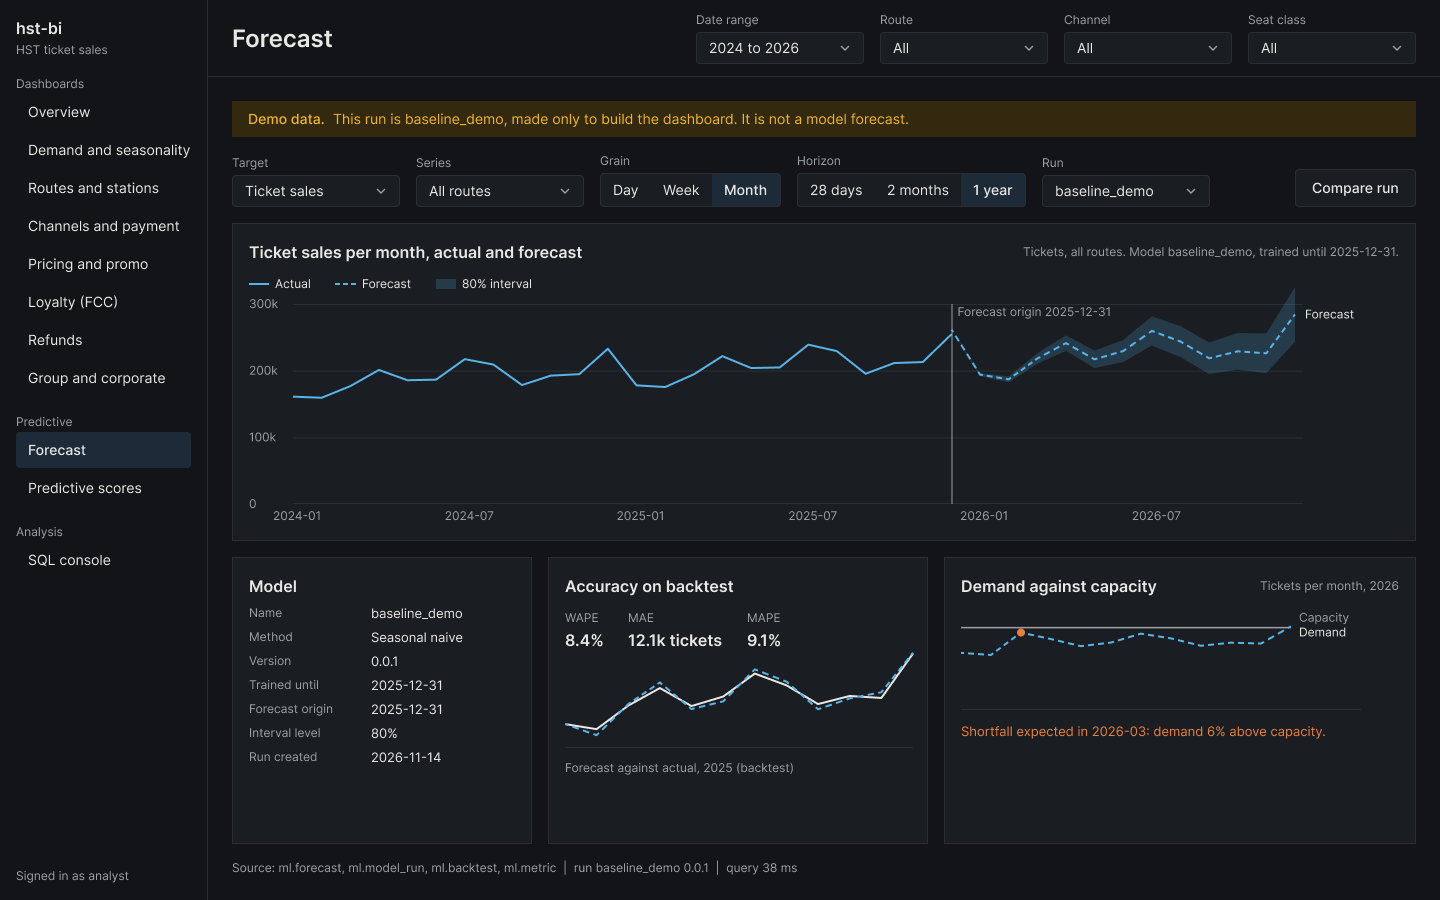
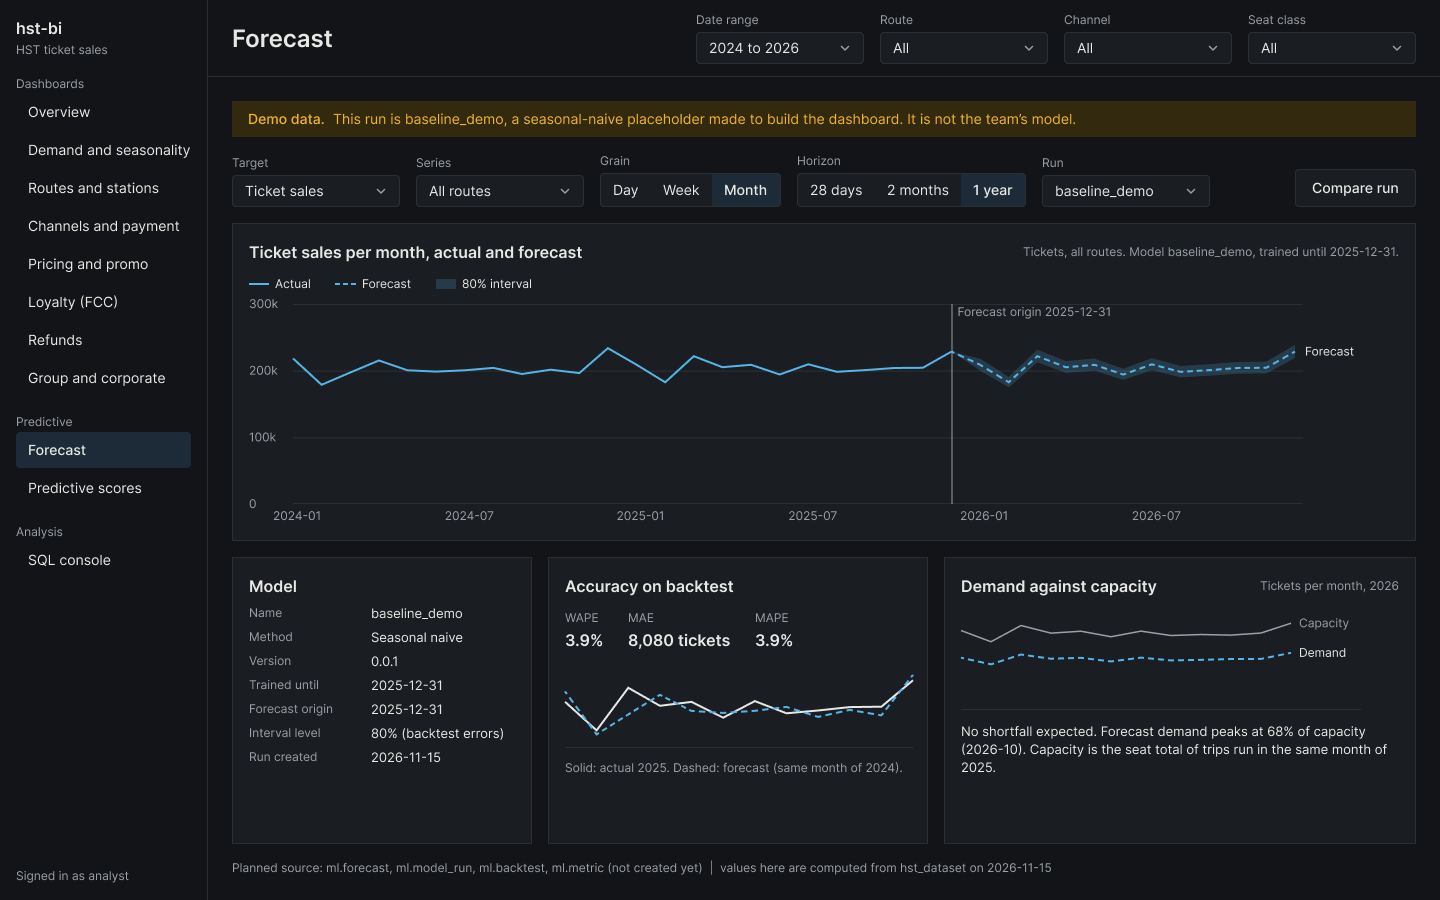
docs(design): use real dataset values in mockups
Replace illustrative numbers with values queried from hst_dataset:
KPIs, monthly revenue by season (now stacked bars), channel mix, top
routes, SQL console results, and a seasonal-naive forecast baseline
with its real backtest accuracy. Add WORKFLOW.md, which was missing
from the earlier commit.

diff --git a/WORKFLOW.md b/WORKFLOW.md
@@ -1,0 +1,97 @@
+# Workflow
+
+Screen flow, states, and wireframe hierarchy. Visual rules are in [DESIGN.md](DESIGN.md). The first Figma pass covers three screens: Overview, Forecast, and SQL console.
+
+## Screen flow
+
+```mermaid
+flowchart LR
+    L[Login] --> O[Overview]
+    O --> D[Demand and seasonality]
+    O --> R[Routes and stations]
+    O --> C[Channels and payment]
+    O --> P[Pricing and promo]
+    O --> F[Loyalty FCC]
+    O --> X[Refunds]
+    O --> G[Group and corporate]
+    O --> FC[Forecast]
+    O --> S[Predictive scores]
+    O --> Q[SQL console]
+    Q -. chart this result .-> O
+```
+
+Navigation is a persistent left list. Global filters (date range, season, route, channel, seat class) sit in the top bar and apply to every page except the SQL console. Roles: `viewer` sees dashboards, `analyst` also gets the SQL console and saved queries.
+
+## Screen: Overview
+Question: how are tickets and revenue doing for the selected period?
+
+Hierarchy:
+```
+Frame 1440x900
+  Navigation (208)
+    Product name, page list, user and theme
+  Main
+    Top bar (56): page title, global filter bar, period label
+    Content
+      KPI row: Tickets, Gross revenue, Net revenue, Refund rate, Avg lead time
+      Trend: net revenue by month, stacked bars by season type (brush on the time axis)
+      Row of two: Channel mix (bars) and Route ranking (table, 5 rows, sortable)
+      Footer line: source table, row count, query time, data freshness
+```
+Interactions: click a bar or a season in the legend to cross-filter the whole page; brush the trend to set the date range; clicking a table row filters by route.
+
+## Screen: Forecast
+Question: how many tickets do we expect over the next 1 to 2 months and the next year, and how good were past forecasts?
+
+Hierarchy:
+```
+Frame 1440x900
+  Navigation, Top bar (global filters, plus series picker)
+  Content
+    Banner (only when needed): demo run or stale run
+    Controls: target, series, grain (day/week/month), horizon (28 days, 2 months, 1 year), run picker
+    Main chart: actual solid, forecast dashed, interval band, forecast origin rule
+    Row of two
+      Model panel: model, version, trained until, forecast origin, interval level
+      Accuracy panel: WAPE, MAE, MAPE for the run; mini backtest chart
+    Capacity panel: forecast demand against scheduled seat capacity (summed per trip), shortfall marked when demand exceeds it
+```
+Interactions: switching grain or horizon redraws without a page change; the run picker can add a second run for side-by-side comparison.
+
+## Screen: SQL console
+Question: can I answer a question the dashboards do not cover, safely?
+
+Hierarchy:
+```
+Frame 1440x900
+  Navigation, Top bar (no global filters; shows role and connection)
+  Content (split)
+    Left: Schema browser (schemas, tables, columns with type and description)
+    Right
+      Editor: tabs for queries, toolbar (Run, Cancel, Format, Save), editor body
+      Status line: duration, row count, truncated notice, rejected-by-guard message
+      Results: virtualized grid, right-aligned numbers, Export CSV, Chart this result
+    Right rail (collapsible): History and saved queries
+```
+Interactions: `Ctrl+Enter` runs the selection or the statement; `Esc` cancels; schema names insert at the cursor; a rejected statement shows the guard's reason beside the offending line.
+
+## States to design for every data region
+| State | Treatment |
+|---|---|
+| Loading | Skeleton at final size; no spinner over content; previous data stays visible while a refresh runs |
+| Empty | One sentence saying why (filter too narrow, no run yet) and the one action that fixes it |
+| Error | What failed in plain words, the request id, a retry control that retries |
+| Truncated | Notice with the cap that was hit and an export action |
+| Demo data | `caution` banner stays while any demo run is shown |
+| Stale forecast | `caution` banner with the age of the latest run |
+| Forbidden | Role message with who can grant access; no dead buttons |
+| Guard rejection | Reason from the SQL guard, no stack trace |
+| Timeout | States the timeout in seconds and suggests narrowing or aggregating |
+
+## Responsive
+1440 wide is the design size. At 1280 the navigation collapses to icons with labels on hover. At tablet width the filter bar wraps and the two-column rows stack. Phone is out of scope for the MVP.
+
+## Review route
+1. Check the three frames in Light, then Dark.
+2. Run the checklist at the end of DESIGN.md on each frame.
+3. Record changes here and in DESIGN.md before building the Svelte screens.

diff --git a/DESIGN.md b/DESIGN.md
@@ -16,7 +16,14 @@ Source of truth for the UI. The Figma file implements these tokens as variables,
 | SQL console | [sql-console-light.png](design/sql-console-light.png) | [sql-console-dark.png](design/sql-console-dark.png) |
 | States (loading, empty, error, rejected, truncated, stale, forbidden) | [states-light.png](design/states-light.png) | |
 
-All numbers in the mockups are illustrative except the ticket count (10,815,864) and the net revenue total (IDR 2.235 T). Query text in the SQL console is real SQL against the dataset columns.
+Numbers in the mockups are real values queried from `hst_dataset` on 2026-11-15 through the read-only role: KPIs, the monthly revenue by season type, channel mix, top routes, and the SQL console query with its 32 result rows and 1.9 s timing. On the Forecast screen the actuals are real, and the forecast is a seasonal-naive baseline computed from them (2026 month = same month of 2025), with an 80% band from the 10th to 90th percentile of its 2025 backtest errors (WAPE 3.9%, MAE 8,080 tickets). It is labeled as demo data because it is not the team's model. The States sheet uses example copy.
+
+What the real data changed in the design:
+- Season types are date-exclusive, so the Overview trend is a stacked monthly bar chart, not one line per season.
+- `COVID restriction` is its own season series (gray).
+- Seat capacity is not a constant 600: trips carry 300, 450, or 600 seats, so capacity is summed per trip.
+- Forecast demand peaks at 68% of capacity, so the capacity panel shows "no shortfall" instead of a warning.
+- Full-table aggregates take 6 to 13 seconds without pre-aggregation, far above the 2 second target; the footer shows the measured time.
 
 ## Brief
 - Purpose: explore ticket sales of the HST dataset, run read-only SQL, and read ML forecasts next to actuals.
